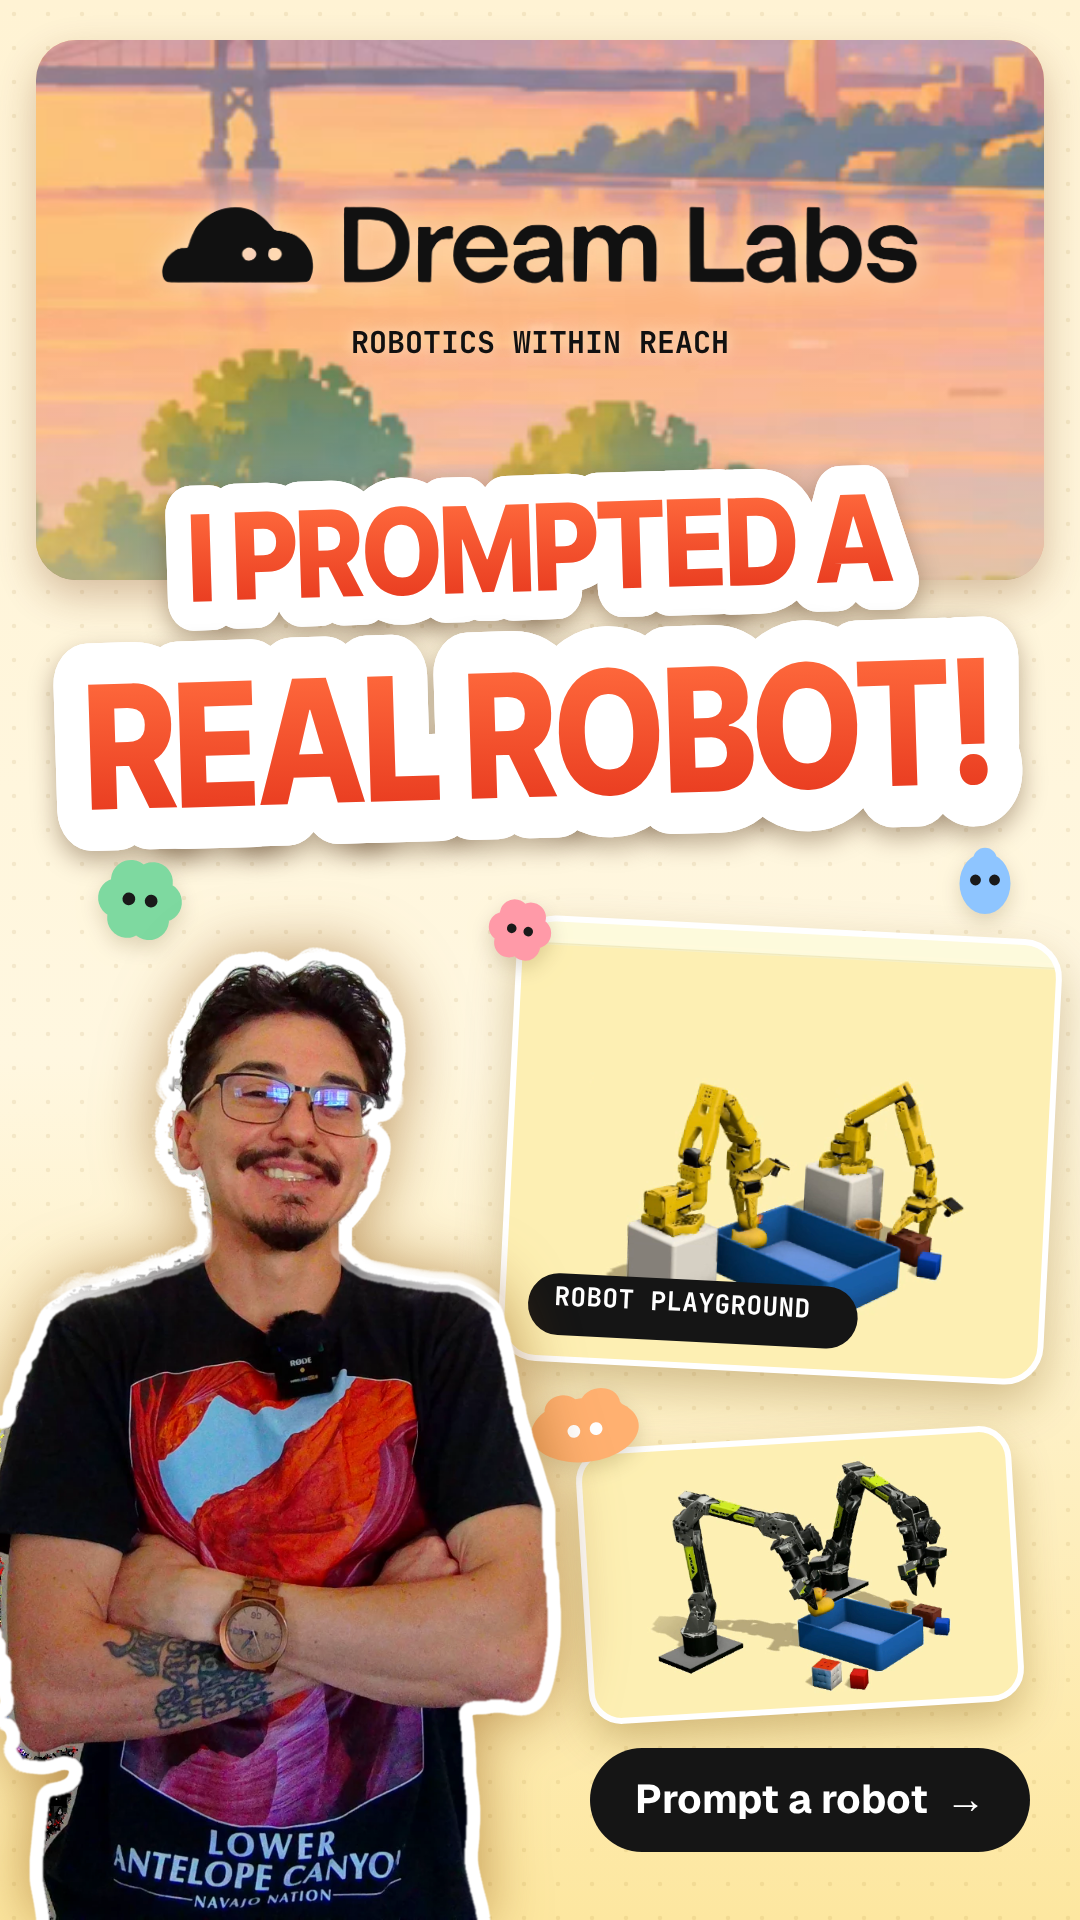
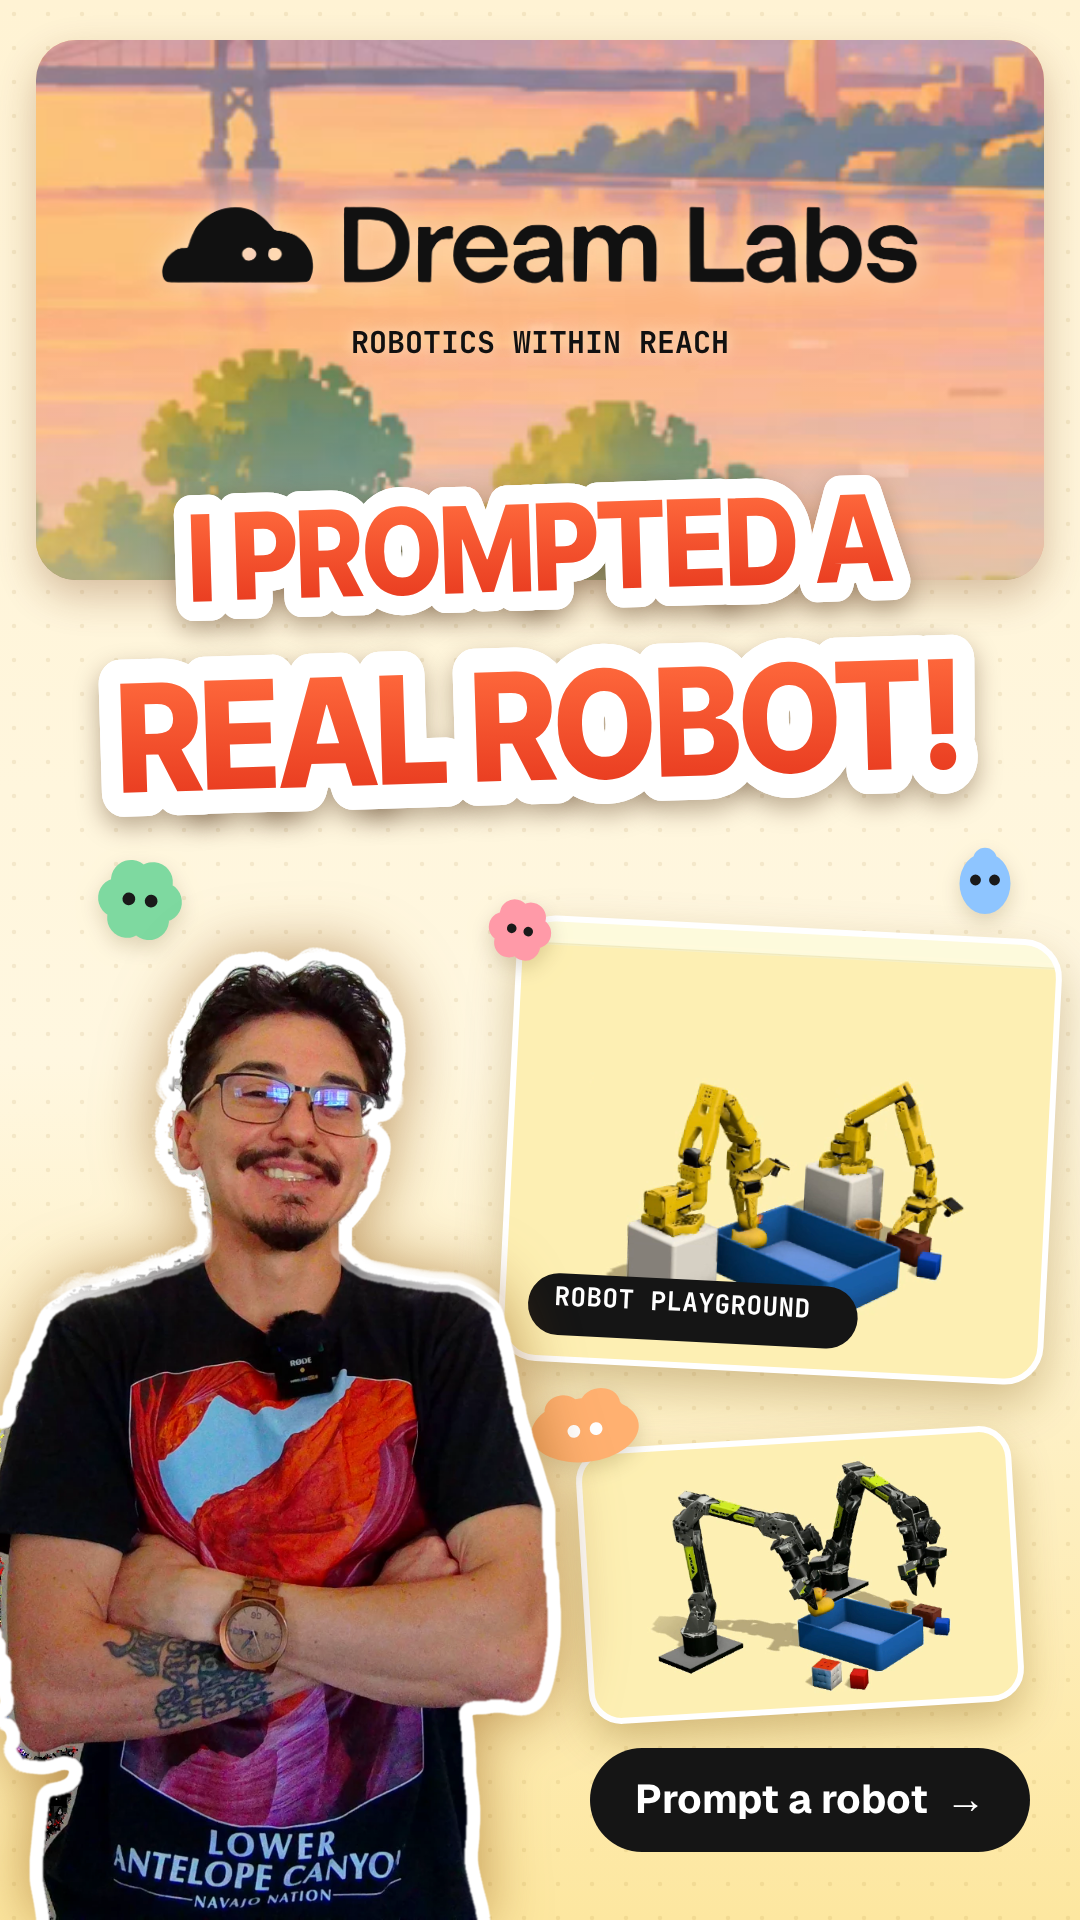
DreamLabs thumbnail: slimmer REAL ROBOT! and thinner white border on both lines
Claude-Session: https://claude.ai/code/session_01NSJvdmHsHoazKiuuGVQfMY

Changed region(s): [[0.0306, 0.2188, 0.9472, 0.4688], [0.5194, 0.2188, 0.7333, 0.25], [0.7333, 0.25, 0.7639, 0.2812]]

diff --git a/story/dreamlabs/thumb.html b/story/dreamlabs/thumb.html
@@ -16,7 +16,7 @@
   const rr = (x, y, w, h, r) => { c.beginPath(); c.roundRect(x, y, w, h, r); };
   // poster word: thick dark stroke + soft drop + fill
   const word = (s, x, y, size, fill, rot = 0, sx = 0.88, white = false) => { c.save(); c.translate(x, y); c.rotate(rot); c.scale(sx, 1); c.font = D(size); c.textAlign = 'center'; c.textBaseline = 'middle'; c.letterSpacing = '-2px'; c.lineJoin = 'round';
-    if (white) { c.save(); c.shadowColor = 'rgba(60,30,0,0.35)'; c.shadowBlur = 24; c.shadowOffsetY = 10; c.lineWidth = size * 0.48; c.strokeStyle = '#FFFFFF'; c.strokeText(s, 0, 0); c.restore(); c.strokeStyle = '#FFFFFF'; for (const k of [0.48, 0.42, 0.36, 0.3, 0.24, 0.18, 0.12]) { c.lineWidth = size * k; c.strokeText(s, 0, 0); } } else { c.fillStyle = 'rgba(60,30,0,0.35)'; c.fillText(s, 8, 14); c.lineWidth = size * 0.16; c.strokeStyle = INK; c.strokeText(s, 0, 0); }
+    if (white) { c.save(); c.shadowColor = 'rgba(60,30,0,0.35)'; c.shadowBlur = 24; c.shadowOffsetY = 10; c.lineWidth = size * 0.32; c.strokeStyle = '#FFFFFF'; c.strokeText(s, 0, 0); c.restore(); c.strokeStyle = '#FFFFFF'; for (const k of [0.32, 0.27, 0.22, 0.17, 0.12]) { c.lineWidth = size * k; c.strokeText(s, 0, 0); } } else { c.fillStyle = 'rgba(60,30,0,0.35)'; c.fillText(s, 8, 14); c.lineWidth = size * 0.16; c.strokeStyle = INK; c.strokeText(s, 0, 0); }
     if (Array.isArray(fill)) { const g = c.createLinearGradient(0, -size / 2, 0, size / 2); g.addColorStop(0, fill[0]); g.addColorStop(1, fill[1]); c.fillStyle = g; } else c.fillStyle = fill; c.fillText(s, 0, 0); c.restore(); };
   // the site's blob mascots: soft rounded bodies with two dot eyes
   const blob = (x, y, s, col, rot = 0, kind = 0) => { c.save(); c.translate(x, y); c.rotate(rot); c.shadowColor = 'rgba(80,50,0,0.18)'; c.shadowBlur = 20; c.shadowOffsetY = 8; c.fillStyle = col; c.beginPath();
@@ -39,7 +39,7 @@
   c.restore();
   // ---- headline (crosses the bottom edge of the sunset card)
   word('I PROMPTED A', W / 2, 555, 120, ['#FF6A3D', '#E5341B'], -0.03, 0.88, true);
-  word('REAL ROBOT!', W / 2, 745, 172, ['#FF6A3D', '#E5341B'], -0.03, 0.84, true);
+  word('REAL ROBOT!', W / 2, 735, 150, ['#FF6A3D', '#E5341B'], -0.03, 0.9, true);
   // ---- robot card (the arms from the site) with the site's playground chip
   c.save(); c.translate(780, 1150); c.rotate(0.05); const cw = 540, ch = 440;
   c.shadowColor = 'rgba(120,80,10,0.35)'; c.shadowBlur = 50; c.shadowOffsetY = 20; rr(-cw / 2, -ch / 2, cw, ch, 36); c.fillStyle = '#FDEFB4'; c.fill(); c.shadowColor = 'transparent';
